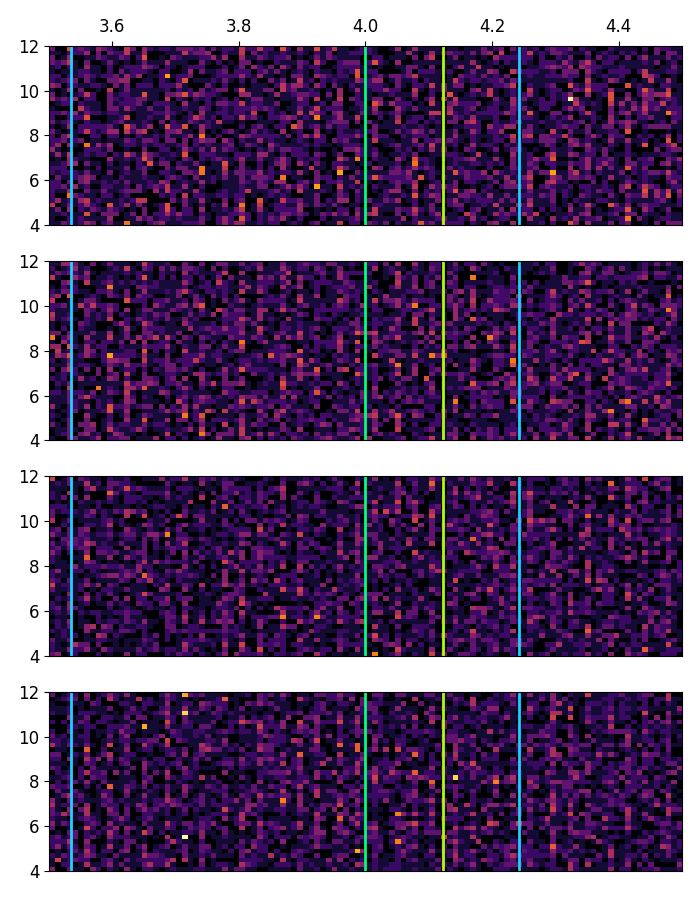
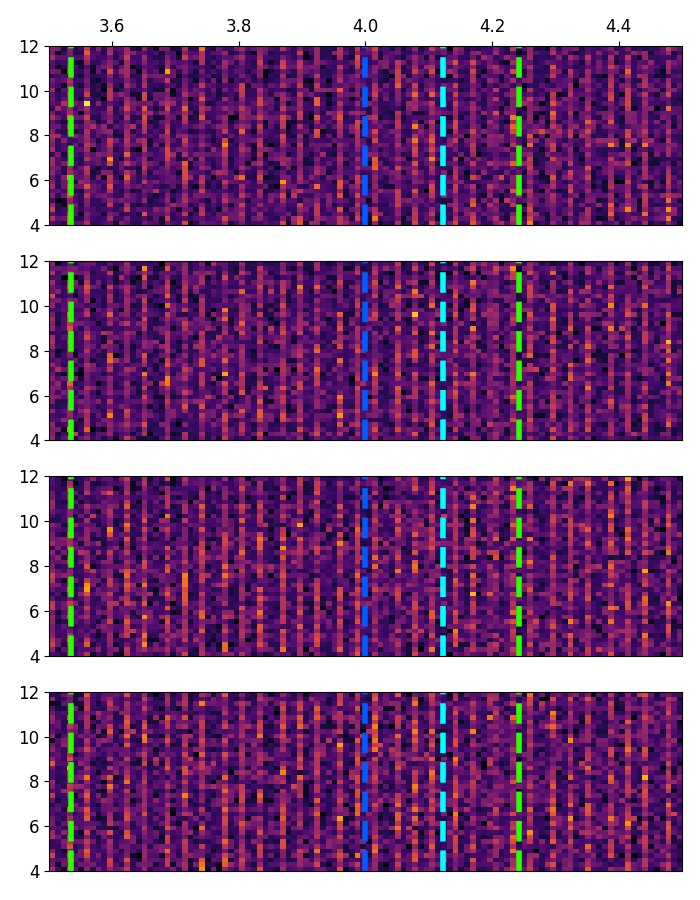
Playing with color scheme in Figure 5 (now Figure 5, Figure 6)
Played with a few different color schemes to improve the visibility of
features in Figure 5 (now Figure 5 and Figure 6). Adjusted some of
the functions that go into this figure and other such minor things.

diff --git a/figure5/figure5a.py b/figure5/figure5a.py
@@ -111,15 +111,17 @@ f0s = [280, 1400]     # set F0s for each simulation
 for tmr in tmrs:
     for f0 in f0s:
         # Calculate ISI histograms for one Larsen and Delgutte (2008) stimulus and save to disk
-        histograms = calculate_ISI_histogram(f0, np.linspace(4, 12, 40), tmr=tmr)
+        histograms = calculate_ISI_histogram(f0, np.linspace(4, 12, 40), tmr=tmr, n_repeat=100)
         np.save('figure5/isi_histograms_tmr_' + str(tmr) + '_' + str(f0) + '.npy', histograms)
         np.save('figure5/neural_harm_nums_tmr_' + str(tmr) + '_' + str(f0) + '.npy', np.linspace(4, 12, 40))
 
 # Create plots
 # Define colorscheme for different F0s
-color_lower = '#ACFF00'
-color_middle = '#00FF76'
-color_upper = '#1DD0FF'
+color_lower = '#03fffb'
+color_middle = '#035bff'
+color_upper = '#2dff03'
+linewidth = 4
+linestyle = 'dashed'
 
 # Create main plot (zoomed-out histograms surfaces)
 for fig_subnum, F0 in zip(['a', 'b'], [280, 1400]):
@@ -130,18 +132,18 @@ for fig_subnum, F0 in zip(['a', 'b'], [280, 1400]):
     fig, ax = plot_ISI_histogram(F0, (3.5, 4.5))
     for idx_tmr in range(4):
         # Highlight peaks at F0 multiples
-        ax[idx_tmr].plot([4, 4], [4, 12], color=color_middle, linewidth=2)
-        ax[idx_tmr].plot([3/2**(-5.5/12), 3/2**(-5.5/12)], [4, 12], color=color_lower, linewidth=2)
-        ax[idx_tmr].plot([5/2**(6/12), 5/2**(6/12)], [4, 12], color=color_upper, linewidth=2)
-        ax[idx_tmr].plot([6/2**(6/12), 6/2**(6/12)], [4, 12], color=color_upper, linewidth=2)
+        ax[idx_tmr].plot([4, 4], [4, 12], color=color_middle, linewidth=linewidth, linestyle=linestyle)
+        ax[idx_tmr].plot([3/2**(-5.5/12), 3/2**(-5.5/12)], [4, 12], color=color_lower, linewidth=linewidth, linestyle=linestyle)
+        ax[idx_tmr].plot([5/2**(6/12), 5/2**(6/12)], [4, 12], color=color_upper, linewidth=linewidth, linestyle=linestyle)
+        ax[idx_tmr].plot([6/2**(6/12), 6/2**(6/12)], [4, 12], color=color_upper, linewidth=linewidth, linestyle=linestyle)
     plt.savefig('plots/fig5' + fig_subnum + '2.png')
 
     # Create subplot #2 (zoomed-in histogram surface, focused on 0.5 to 1.5 periods of F0)
     fig, ax = plot_ISI_histogram(F0, (0.5, 1.5))
     for idx_tmr in range(4):
         # Highlight peaks at F0 multiples
-        ax[idx_tmr].plot([1, 1], [4, 12], color=color_middle, linewidth=2)
-        ax[idx_tmr].plot([1/2**(-5.5/12), 1/2**(-5.5/12)], [4, 12], color=color_lower, linewidth=2)
-        ax[idx_tmr].plot([1/2**(6/12), 1/2**(6/12)], [4, 12], color=color_upper, linewidth=2)
-        ax[idx_tmr].plot([2/2**(6/12), 2/2**(6/12)], [4, 12], color=color_upper, linewidth=2)
+        ax[idx_tmr].plot([1, 1], [4, 12], color=color_middle, linewidth=linewidth, linestyle=linestyle)
+        ax[idx_tmr].plot([1/2**(-5.5/12), 1/2**(-5.5/12)], [4, 12], color=color_lower, linewidth=linewidth, linestyle=linestyle)
+        ax[idx_tmr].plot([1/2**(6/12), 1/2**(6/12)], [4, 12], color=color_upper, linewidth=linewidth, linestyle=linestyle)
+        ax[idx_tmr].plot([2/2**(6/12), 2/2**(6/12)], [4, 12], color=color_upper, linewidth=linewidth, linestyle=linestyle)
     plt.savefig('plots/fig5' + fig_subnum + '3.png')
